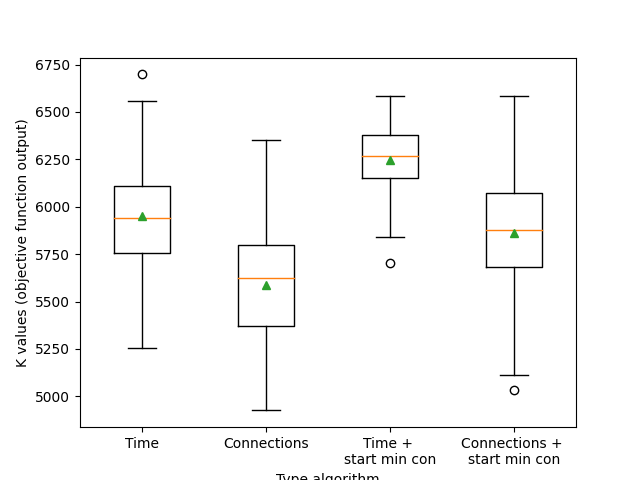
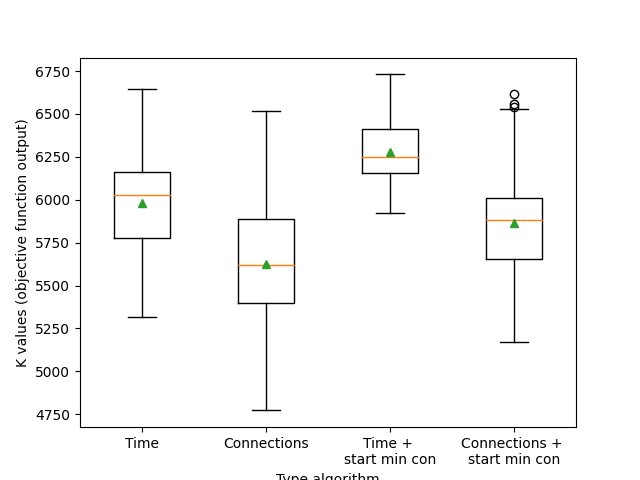
changed def greedy_conns: added lookahead, got rid of random, fixed bugs. Now only visits the same connection once.

diff --git a/program/trajectory.py b/program/trajectory.py
@@ -20,7 +20,7 @@ class Train():
         for station in self.stations.stations.values():
             if not station.visited:
                 available_stations.append(station)
-        
+
         if start == 'min_con':
             min_con = None
             for choose_station in available_stations:
@@ -93,7 +93,7 @@ class Train():
         are visited. If there are no unvisited connections, it chooses
         a random connection."""
         while self.stop == False:
-            # initiate empty list to put unvisited connection
+            # initiate empty list to put unvisited connections
             choices = []
 
             # loop though all connections
@@ -117,16 +117,16 @@ class Train():
                 next = sorted_choices[0]
                 # if the connection has been visited before, remove from the list
                 self.check_time(next)
-            
+
         self.current_station.visit()
-    
+
     def greedy_conns(self):
         """Moves current train to next possible stations by choosing
         the station that holds the least amount of connections, until all
         possible connections are visited. If there are no unvisited connections,
         it chooses a random connection."""
         while self.stop == False:
-            # initiate empty list to put unvisited connection
+            # initiate empty list to put unvisited connections
             choices = []
 
             # loop though all connections
@@ -137,10 +137,48 @@ class Train():
 
             # if there are no unvisited connections available
             if len(choices) == 0:
-                # choose a random connection
+                # get all connections of current station
                 all_conns = self.current_station.connect
-                next = random.choice(all_conns)
+                # set default length to high number
+                total_unvis_len = 200
+                # set counter to check for unvisited connections
+                unvis_counter = 0
+                # initiate empty list
+                unvis = []
+                # save best current connection which is None
+                best_conn = None
+                # loop through all possible connections
+                for conn in all_conns:
+                    # get the next station of the connection
+                    next = conn.get_other_station(self.current_station)
+                    # get all connections of next station
+                    all_conns_next = next.connect
+
+                    # loop through conns of next station
+                    for next_conn in all_conns_next:
+                        # if connection is not visited, add 1 to counter
+                        # and add the connection to the unvis list
+                        if not next_conn.is_visited():
+                            unvis.append(next_conn)
+                            unvis_counter += 1
+
+                    # save length of list with least amount of connections
+                    # and save the connection itself as the best connection
+                    if 0 < len(unvis) < total_unvis_len:
+                        total_unvis_len = len(unvis)
+                        best_conn = conn
+
+                # if counter is 0, stop trajectory
+                if unvis_counter == 0:
+                    self.stop == True
+                    # break out of while-loop
+                    break
+                # else, choose best_conn as next connection
+                else:
+                    next = best_conn
+
                 self.check_time(next)
+
             else:
                 # current station is set as station with minimal connections
                 min_con = None
@@ -164,8 +202,9 @@ class Train():
                     elif con_count == min_con:
                         random_choice = [next, connection]
                         next = random.choice(random_choice)
-        
+
                 self.check_time(next)
+
         self.current_station.visit()
 
     def check_time(self, connection: "Connection"):

diff --git a/main.py b/main.py
@@ -7,15 +7,15 @@ from program.boxplot import boxplot
 # create a network and run the algorithm
 # you can fill in 'nl' if you want to calculate trajectory for the whole netherlands
 # you can fill in 'min_con' if you want to start the trajectories at stations with minimal connections
-# data_tuple = run('nl', 'min_con')
+data_tuple = run('nl', 'min_con')
 
-# # save data from the run
-# n = data_tuple[0]
-# trains = data_tuple[1]
+# save data from the run
+n = data_tuple[0]
+trains = data_tuple[1]
 
-# # visualize the data
-# visualize(n, trains, 'nl')
+# visualize the data
+visualize(n, trains, 'nl')
 
 # hist(1000)
 
-boxplot(100, 'nl')
+# boxplot(100, 'nl')

diff --git a/program/algorithm.py b/program/algorithm.py
@@ -31,8 +31,8 @@ def run(which_regions = 'holland', start = 'random'):
             t = Train(f'train_{train_number}', n, which_regions, start)
             # choose which algorithm to use
             # t.greedy_time()
-            #t.greedy_conns()
-            t.connect_with_used()
+            t.greedy_conns()
+            # t.connect_with_used()
             # t.connect()
             trains.append(t.trajectory)
             n.add_trajectory(t)
